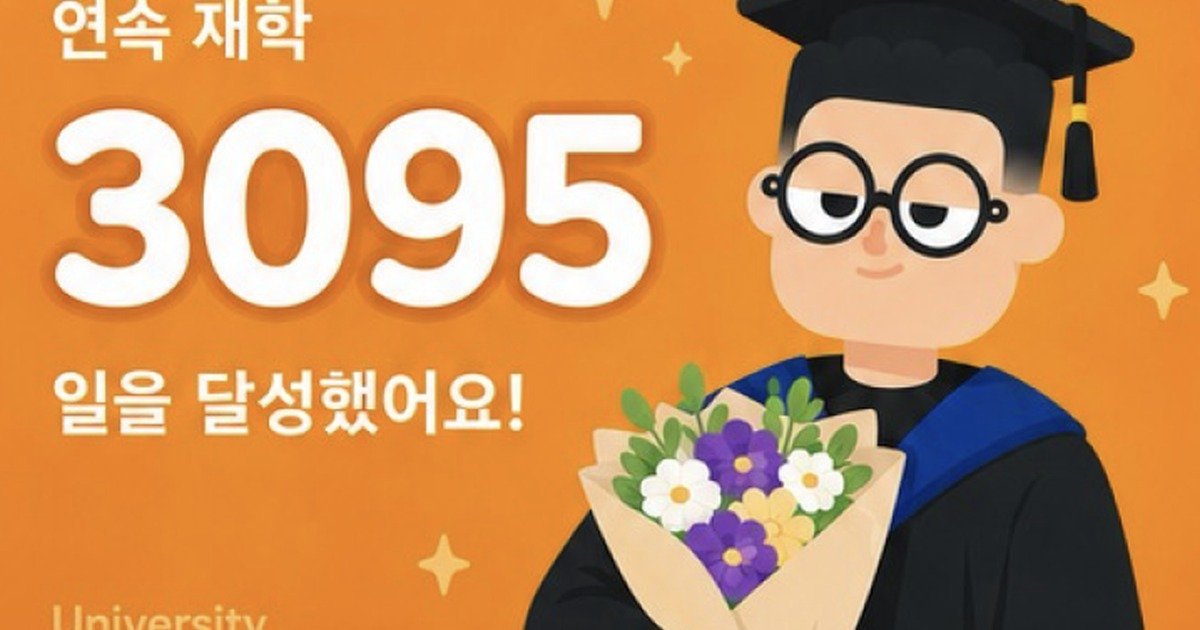
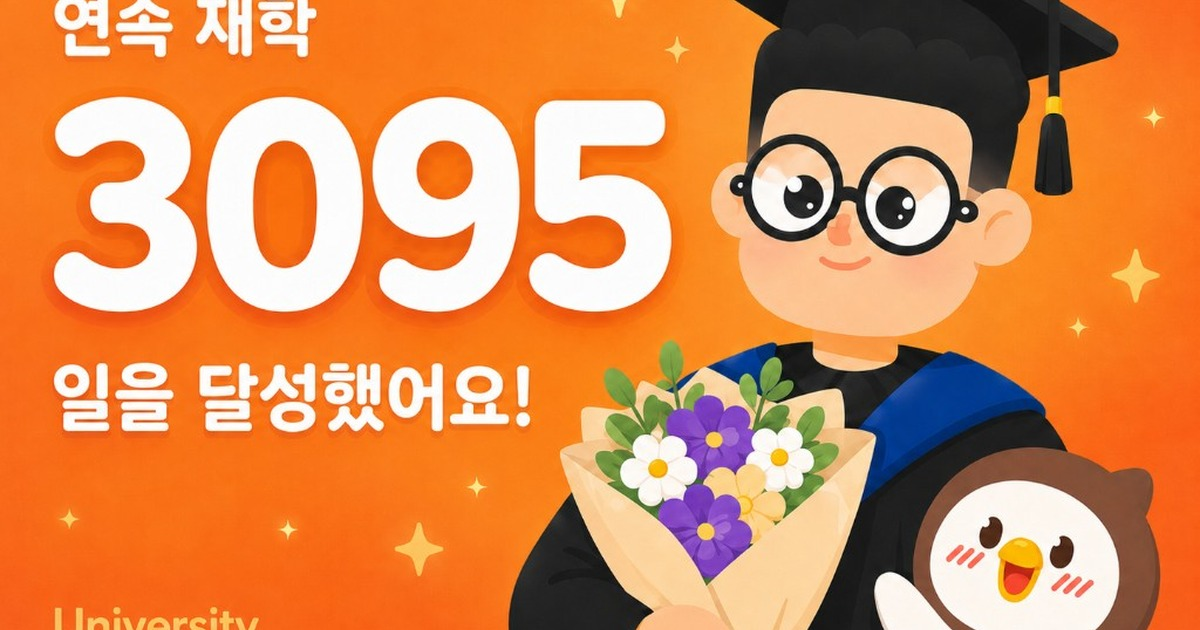
chore) OG 썸네일 교체
공유 미리보기 이미지를 새 연속 재학 기념 일러스트로 갱신한다.

diff --git a/cutiebradie-graduation/index.html b/cutiebradie-graduation/index.html
@@ -29,12 +29,12 @@
   <link rel="dns-prefetch" href="https://unpkg.com">
   <link rel="dns-prefetch" href="https://esm.sh">
   <link href="https://fonts.googleapis.com/css2?family=Nunito:wght@800;900&family=Noto+Sans+KR:wght@400;700;900&display=swap" rel="stylesheet">
-  <link rel="stylesheet" href="./src/css/reset.css?v=cb137-og">
-  <link rel="stylesheet" href="./src/css/tokens.css?v=cb137-og">
-  <link rel="stylesheet" href="./src/css/base.css?v=cb137-og">
-  <link rel="stylesheet" href="./src/css/components.css?v=cb137-og">
-  <link rel="stylesheet" href="./src/css/screens.css?v=cb137-og">
-  <link rel="stylesheet" href="./src/css/animations.css?v=cb137-og">
+  <link rel="stylesheet" href="./src/css/reset.css?v=cb138-og">
+  <link rel="stylesheet" href="./src/css/tokens.css?v=cb138-og">
+  <link rel="stylesheet" href="./src/css/base.css?v=cb138-og">
+  <link rel="stylesheet" href="./src/css/components.css?v=cb138-og">
+  <link rel="stylesheet" href="./src/css/screens.css?v=cb138-og">
+  <link rel="stylesheet" href="./src/css/animations.css?v=cb138-og">
   <script>
     (function () {
       var path = location.pathname;
@@ -48,6 +48,6 @@
   <div id="app" class="app-shell">
     <div id="screen-root" class="screen-root"></div>
   </div>
-  <script type="module" src="./src/js/app.js?v=cb137-og"></script>
+  <script type="module" src="./src/js/app.js?v=cb138-og"></script>
 </body>
 </html>
